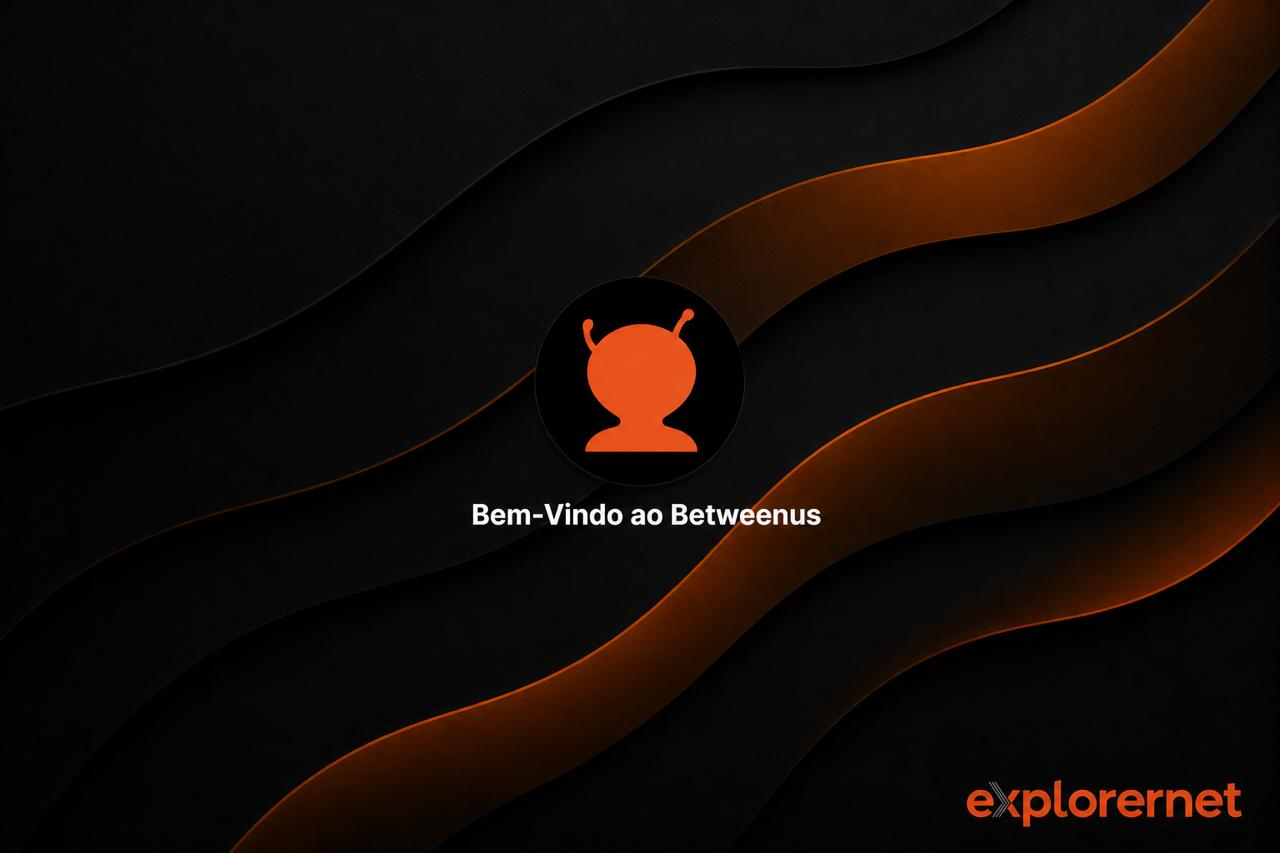
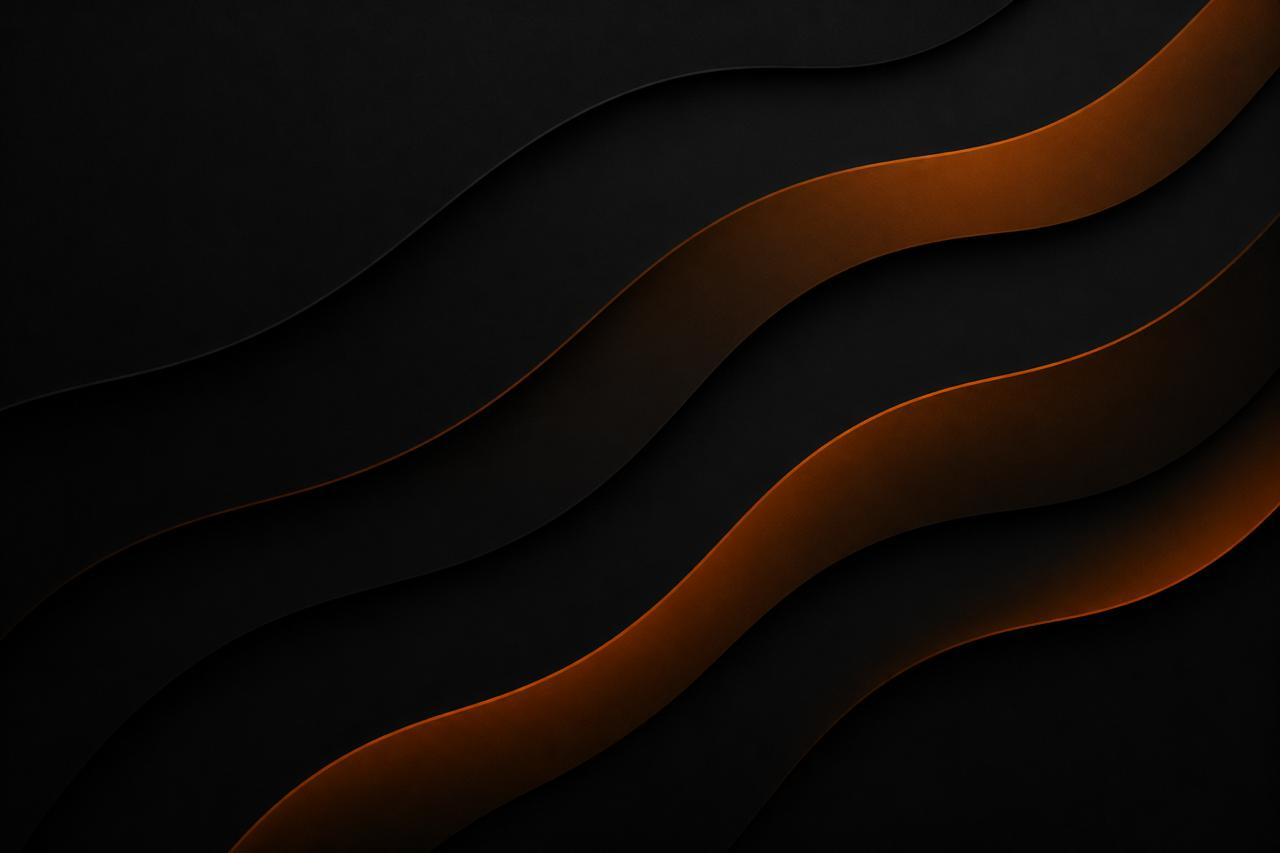
style(frontend): atualiza fundo da tela inicial

Changed region(s): [[0.4375, 0.3353, 0.5938, 0.5487], [0.375, 0.5791, 0.6562, 0.6401], [0.75, 0.9144, 0.9688, 0.9754]]

diff --git a/frontend/src/app/pages/client/WelcomePage.css.ts b/frontend/src/app/pages/client/WelcomePage.css.ts
@@ -1,94 +1,58 @@
-import { style } from '@vanilla-extract/css';
+import { keyframes, style } from '@vanilla-extract/css';
 
 export const WelcomePageRoot = style({
-  minHeight: '100%',
   position: 'relative',
   overflow: 'hidden',
-  isolation: 'isolate',
   backgroundColor: '#050505',
   backgroundPosition: 'center',
   backgroundRepeat: 'no-repeat',
   backgroundSize: 'cover',
 });
 
-export const CenterStage = style({
-  position: 'absolute',
-  inset: 0,
-  display: 'grid',
-  placeItems: 'center',
-  padding: '24px',
-  pointerEvents: 'none',
-});
-
-export const CenterLockup = style({
-  position: 'relative',
-  display: 'grid',
-  justifyItems: 'center',
-  gap: '20px',
-  transform: 'translateY(-3vh)',
-  selectors: {
-    '&::before': {
-      content: '',
-      position: 'absolute',
-      inset: '-40px -96px -28px',
-      zIndex: -1,
-      background:
-        'radial-gradient(ellipse at center, rgba(0, 0, 0, 0.82) 0%, rgba(0, 0, 0, 0.62) 42%, rgba(0, 0, 0, 0) 76%)',
-      pointerEvents: 'none',
-    },
-  },
-  '@media': {
-    'screen and (max-width: 520px)': {
-      gap: '16px',
-      transform: 'translateY(-7vh)',
-    },
-  },
-});
-
-export const AppLogo = style({
-  width: 'clamp(132px, 15vw, 184px)',
-  height: 'clamp(132px, 15vw, 184px)',
-  borderRadius: '50%',
-  objectFit: 'cover',
-  boxShadow: '0 22px 46px rgba(0, 0, 0, 0.58), 0 0 0 1px rgba(255, 255, 255, 0.12)',
-});
-
 export const WelcomeTitle = style({
-  margin: 0,
   color: '#f5f5f5',
-  fontSize: 'clamp(25px, 3vw, 34px)',
-  fontWeight: 700,
-  lineHeight: 1.12,
-  textAlign: 'center',
-  textShadow: '0 2px 8px rgba(0, 0, 0, 0.88), 0 0 18px rgba(0, 0, 0, 0.9)',
+  textShadow: '0 2px 10px rgba(0, 0, 0, 0.86), 0 0 18px rgba(0, 0, 0, 0.74)',
 });
 
-export const ExplorerNetLogo = style({
-  position: 'absolute',
-  right: 'clamp(24px, 5vw, 64px)',
-  bottom: 'clamp(22px, 5vh, 48px)',
-  width: 'clamp(190px, 22vw, 284px)',
-  height: 'auto',
-  filter: 'drop-shadow(0 12px 22px rgba(0, 0, 0, 0.55))',
-  pointerEvents: 'none',
-  '@media': {
-    'screen and (max-width: 640px)': {
-      right: '50%',
-      bottom: '28px',
-      width: 'min(220px, calc(100vw - 48px))',
-      transform: 'translateX(50%)',
+const neonPulse = keyframes({
+  '0%, 100%': {
+    boxShadow:
+      '0 0 10px rgba(255, 90, 0, 0.75), 0 0 26px rgba(255, 90, 0, 0.42), 0 10px 28px rgba(255, 90, 0, 0.28)',
+  },
+  '50%': {
+    boxShadow:
+      '0 0 18px rgba(255, 166, 0, 0.95), 0 0 42px rgba(255, 90, 0, 0.62), 0 12px 34px rgba(255, 90, 0, 0.36)',
+  },
+});
+
+export const NeonChatButton = style({
+  minWidth: 'min(100%, 320px)',
+  paddingInline: '24px',
+  border: '1px solid rgba(255, 255, 255, 0.78)',
+  background: 'linear-gradient(135deg, #ff9d00 0%, #ff5a00 42%, #ff2f00 100%)',
+  color: '#fff',
+  animation: `${neonPulse} 2.1s ease-in-out infinite`,
+  transition: 'transform 160ms ease, box-shadow 160ms ease, filter 160ms ease',
+  selectors: {
+    '&:hover': {
+      transform: 'translateY(-2px) scale(1.03)',
+      filter: 'brightness(1.1)',
+      boxShadow:
+        '0 0 20px rgba(255, 166, 0, 1), 0 0 54px rgba(255, 90, 0, 0.78), 0 16px 36px rgba(255, 90, 0, 0.42)',
+    },
+    '&:focus-visible': {
+      outline: '2px solid #fff',
+      outlineOffset: '3px',
+      boxShadow:
+        '0 0 0 4px rgba(255, 90, 0, 0.34), 0 0 26px rgba(255, 166, 0, 1), 0 0 58px rgba(255, 90, 0, 0.82)',
+    },
+    '&:active': {
+      transform: 'translateY(0) scale(0.99)',
     },
   },
 });
 
-export const ScreenReaderOnly = style({
-  position: 'absolute',
-  width: 1,
-  height: 1,
-  padding: 0,
-  margin: -1,
-  overflow: 'hidden',
-  clip: 'rect(0, 0, 0, 0)',
-  whiteSpace: 'nowrap',
-  border: 0,
+export const NeonChatButtonText = style({
+  color: '#fff',
+  textShadow: '0 0 8px rgba(255, 255, 255, 0.9), 0 0 14px rgba(255, 247, 214, 0.6)',
 });

diff --git a/frontend/src/app/pages/client/WelcomePage.tsx b/frontend/src/app/pages/client/WelcomePage.tsx
@@ -1,26 +1,53 @@
 import React from 'react';
-import { Text } from 'folds';
-import { Page } from '../../components/page';
-import * as css from './WelcomePage.css';
+import { useNavigate } from 'react-router-dom';
+import { Box, Button, Text, config } from 'folds';
+import { Page, PageHeroSection } from '../../components/page';
+import { getDirectCreatePath } from '../pathUtils';
+import {
+  NeonChatButton,
+  NeonChatButtonText,
+  WelcomePageRoot,
+  WelcomeTitle,
+} from './WelcomePage.css';
 import WelcomeBackground from '../../../../public/res/background/betweenus-welcome.jpeg';
 import AppLogo from '../../../../public/res/logo/company-logo.png';
-import ExplorerNetLogo from '../../../../public/res/logo/explorernet-logo.png';
 
 export function WelcomePage() {
+  const navigate = useNavigate();
+
   return (
-    <Page className={css.WelcomePageRoot} style={{ backgroundImage: `url(${WelcomeBackground})` }}>
-      <Text as="h1" className={css.ScreenReaderOnly}>
-        Bem-vindo ao Betweenus
-      </Text>
-      <div className={css.CenterStage} aria-hidden="true">
-        <div className={css.CenterLockup}>
-          <img className={css.AppLogo} width="184" height="184" src={AppLogo} alt="" />
-          <Text className={css.WelcomeTitle} as="p">
-            Bem-vindo ao Betweenus
-          </Text>
-        </div>
-      </div>
-      <img className={css.ExplorerNetLogo} src={ExplorerNetLogo} alt="" aria-hidden="true" />
+    <Page className={WelcomePageRoot} style={{ backgroundImage: `url(${WelcomeBackground})` }}>
+      <Box
+        grow="Yes"
+        style={{ padding: config.space.S700 }}
+        alignItems="Center"
+        justifyContent="Center"
+      >
+        <PageHeroSection>
+          <Box direction="Column" alignItems="Center" gap="500">
+            <img
+              width="160"
+              height="160"
+              src={AppLogo}
+              alt="Betweenus logo"
+              style={{ borderRadius: '50%', objectFit: 'cover' }}
+            />
+            <Text className={WelcomeTitle} as="h1" align="Center" size="H2">
+              Bem-Vindo ao Betweenus
+            </Text>
+            <Button
+              className={NeonChatButton}
+              size="500"
+              radii="300"
+              onClick={() => navigate(getDirectCreatePath())}
+            >
+              <Text className={NeonChatButtonText} as="span" size="B400" truncate>
+                Comece a conversar agora!
+              </Text>
+            </Button>
+          </Box>
+        </PageHeroSection>
+      </Box>
     </Page>
   );
 }

diff --git a/docs/OPEN_SOURCE.md b/docs/OPEN_SOURCE.md
@@ -42,7 +42,7 @@ O projeto adaptará uma plataforma Matrix auto-hospedada e manterá um fork corp
 | OS-006 | Cinny                       | `https://github.com/cinnyapp/cinny`                                | `v4.12.3` / `69515e8e81d082a7b0609247e296391d3d6f1e38`       | AGPL-3.0-only                                                              | Base integral do cliente web corporativo              | Colaborador 2 | Incorporação aprovada pelos dois colaboradores; personalização inicial em andamento |
 | AS-001 | Logo corporativa provisória | Arquivo fornecido pelo usuário em `photo_2026-07-21 13.58.16.jpeg` | JPEG 500x500; derivados PNG em múltiplos tamanhos            | Ativo próprio/provisório; direitos de uso a confirmar antes da homologação | Logo da interface, favicon e ícones PWA/Apple/Android | Colaborador 2 | Incorporado no frontend como ativo de identidade provisório                         |
 | AS-002 | Logo ExplorerNet provisória | Arquivo fornecido pelo usuário em captura de tela PNG              | PNG 648x112; derivado em `frontend/public/res/logo`          | Ativo próprio/provisório; direitos de uso a confirmar antes da homologação | Assinatura visual no canto inferior direito da home   | Colaborador 2 | Incorporado no frontend como ativo de identidade provisório                         |
-| AS-003 | Fundo da home provisório    | Arquivo fornecido pelo usuário em `photo_2026-07-21 16.32.47.jpeg` | JPEG 1280x853; copiado para `frontend/public/res/background` | Ativo próprio/provisório; direitos de uso a confirmar antes da homologação | Fundo visual da tela inicial do cliente web           | Colaborador 2 | Incorporado no frontend como ativo de identidade provisório                         |
+| AS-003 | Fundo da home provisório    | Arquivo fornecido pelo usuário em `photo_2026-07-21 17.01.55.jpeg` | JPEG 1280x853; copiado para `frontend/public/res/background` | Ativo próprio/provisório; direitos de uso a confirmar antes da homologação | Fundo visual da tela inicial do cliente web           | Colaborador 2 | Incorporado no frontend como ativo de identidade provisório                         |
 
 ## Regra de isolamento
 